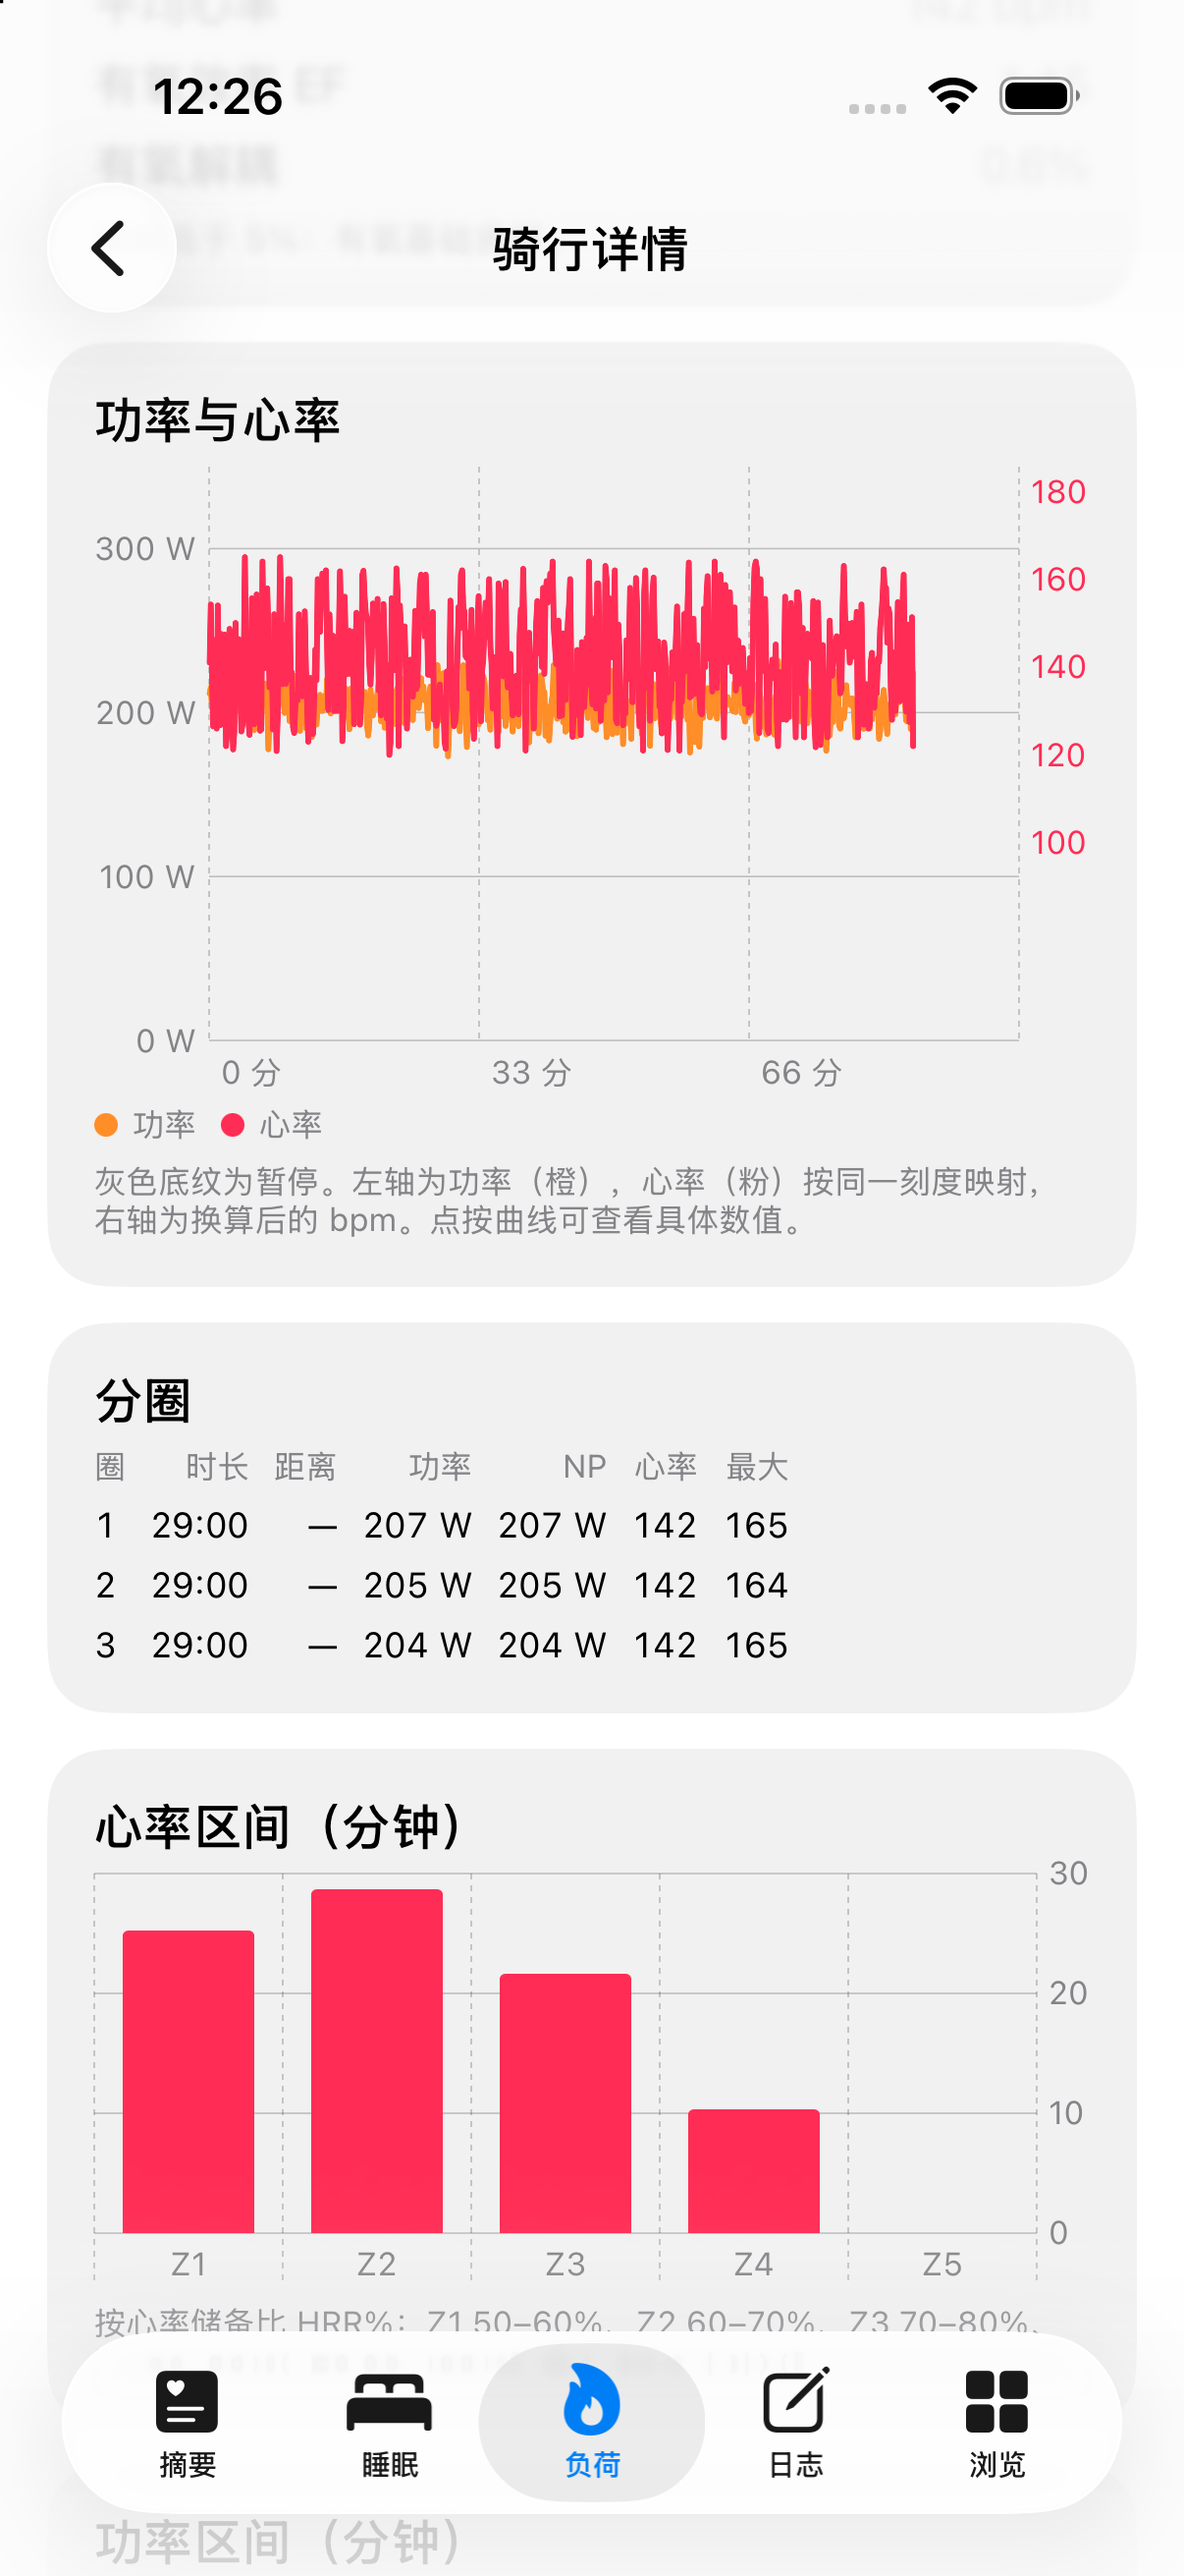
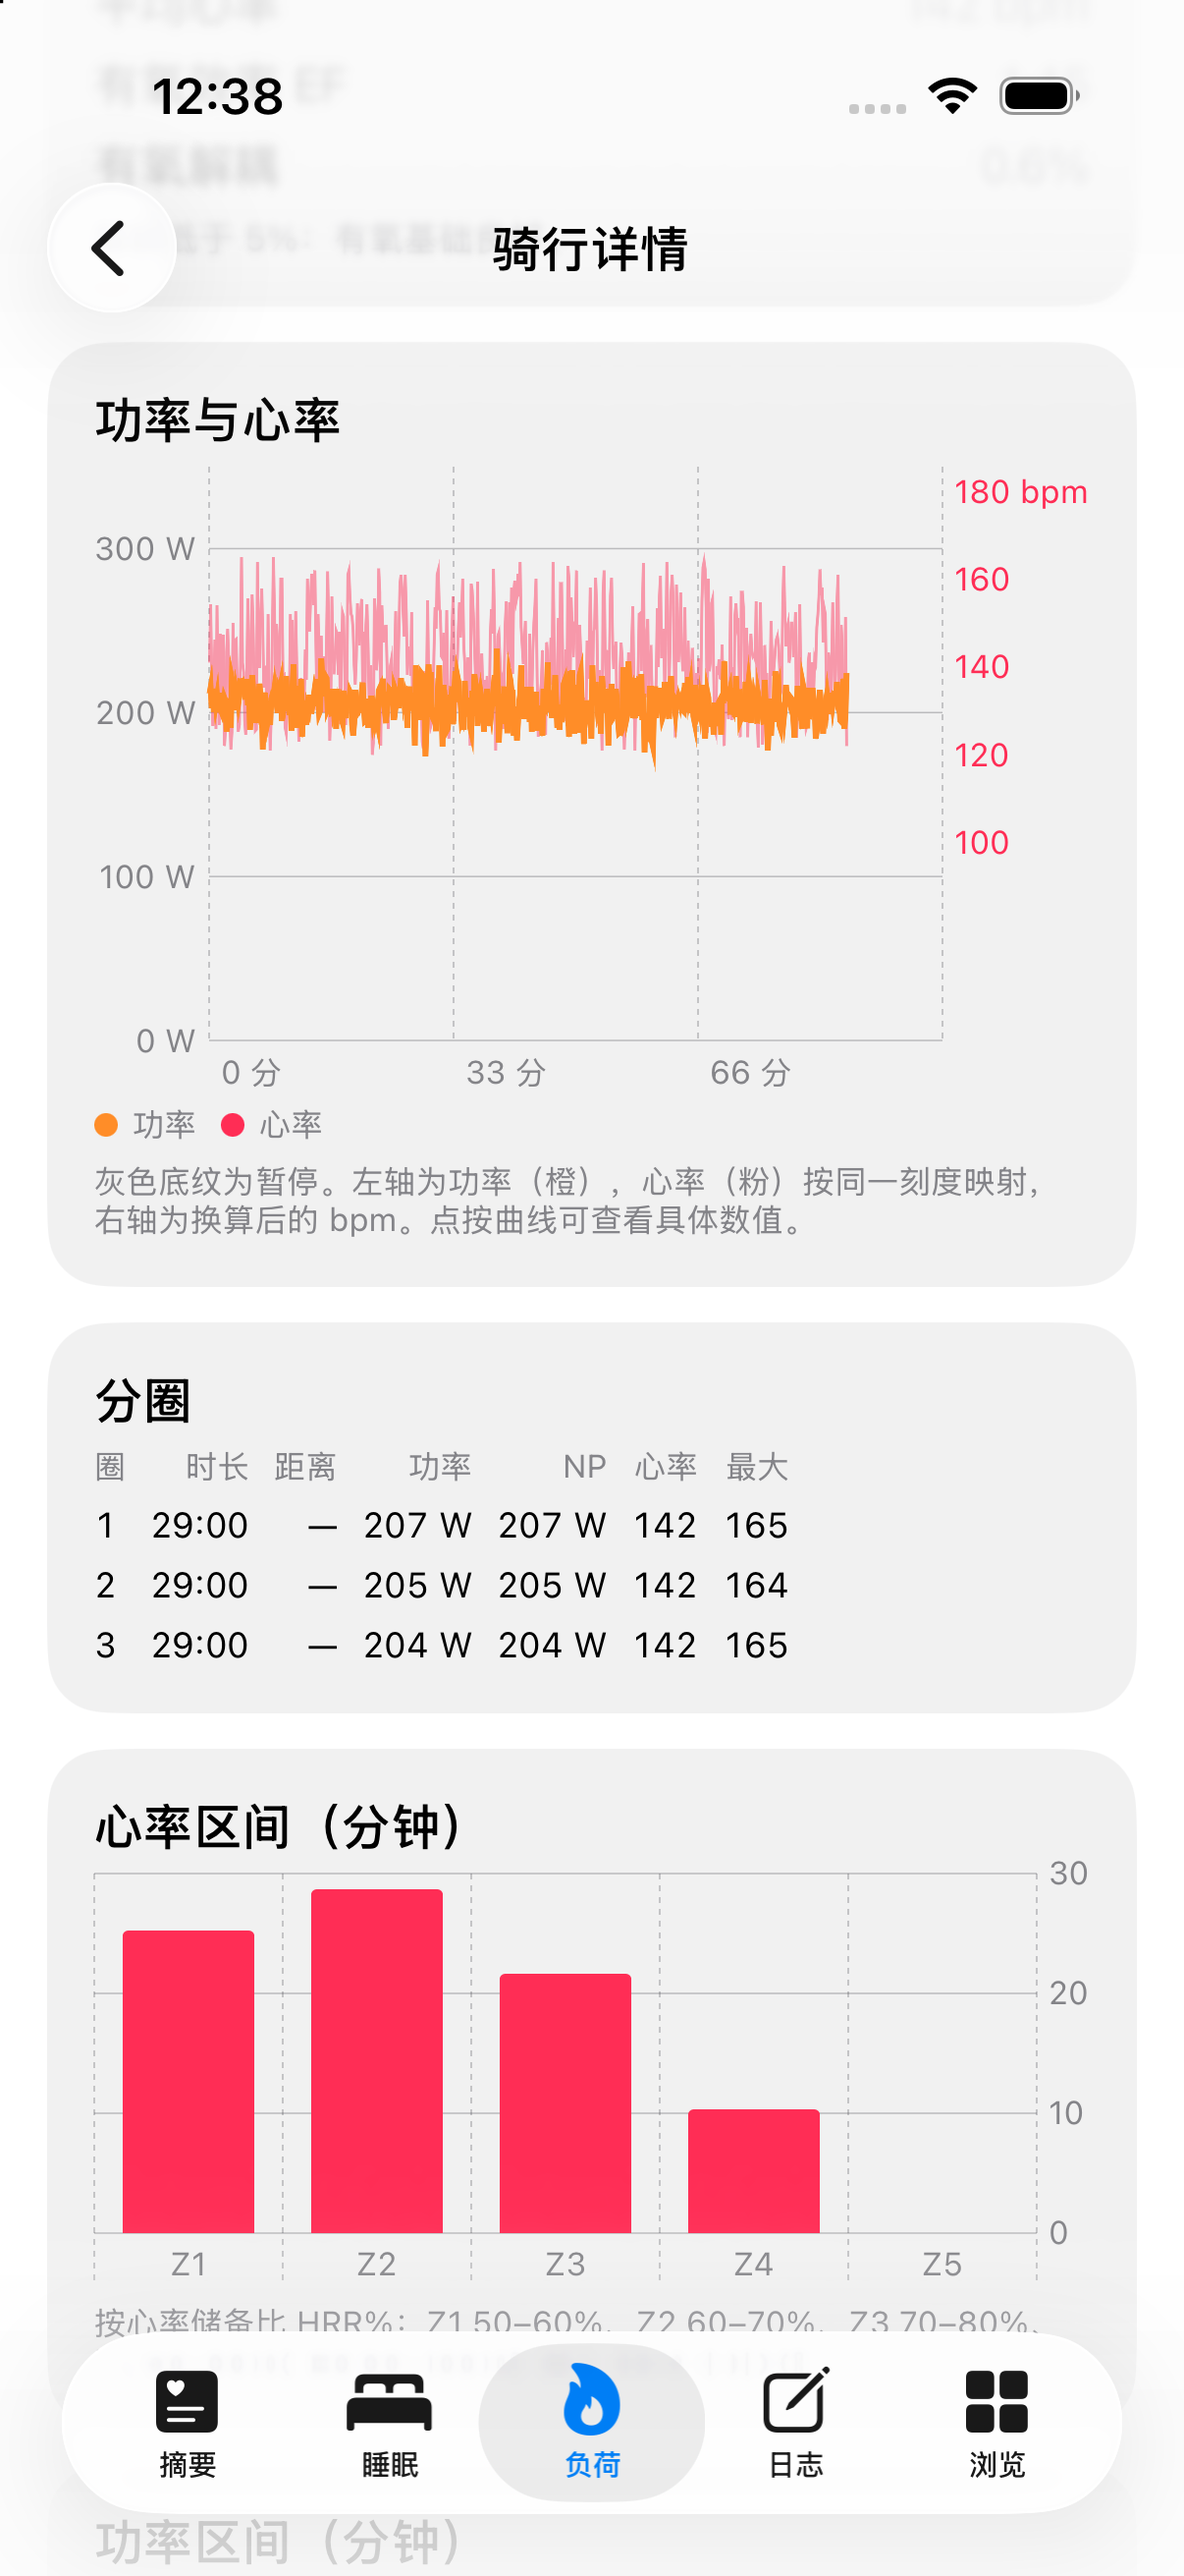
fix(cycling): align lap NP gap handling with ride NP and make power visible on dual-axis chart
- Lap NP fills long power gaps with the ride mean and short gaps with the previous value (D-128), and is omitted below 50% coverage (D-129); add regression tests
- Draw heart rate under power with lower opacity, label the right axis with bpm
- Let scripts/screenshots.sh take a list of routes

diff --git a/App/Cycling/RideTimelineChart.swift b/App/Cycling/RideTimelineChart.swift
@@ -105,17 +105,21 @@ struct RideTimelineChart: View {
                 )
                 .foregroundStyle(Color.gray.opacity(0.15))
             }
-            if hasPower {
-                ForEach(powerRows) { row in
-                    LineMark(x: .value("时间", row.offset), y: .value(row.kind, row.value), series: .value("段", "\(row.kind)\(row.segment)"))
-                        .foregroundStyle(by: .value("指标", row.kind))
-                        .interpolationMethod(.linear)
-                }
-            }
+            // 先画心率、后画功率：心率抖动大，放在下层并调淡，避免盖住功率线
             if hasHeartRate {
                 ForEach(heartRateRows) { row in
                     LineMark(x: .value("时间", row.offset), y: .value(row.kind, row.value), series: .value("段", "\(row.kind)\(row.segment)"))
                         .foregroundStyle(by: .value("指标", row.kind))
+                        .opacity(hasPower ? 0.45 : 1)
+                        .lineStyle(StrokeStyle(lineWidth: 1))
+                        .interpolationMethod(.linear)
+                }
+            }
+            if hasPower {
+                ForEach(powerRows) { row in
+                    LineMark(x: .value("时间", row.offset), y: .value(row.kind, row.value), series: .value("段", "\(row.kind)\(row.segment)"))
+                        .foregroundStyle(by: .value("指标", row.kind))
+                        .lineStyle(StrokeStyle(lineWidth: 2))
                         .interpolationMethod(.linear)
                 }
             }
@@ -127,7 +131,7 @@ struct RideTimelineChart: View {
                     }
             }
         }
-        .chartForegroundStyleScale([Self.powerName: Color.orange, Self.heartRateName: Color.pink])
+        .chartForegroundStyleScale(domain: [Self.powerName, Self.heartRateName], range: [Color.orange, Color.pink])
         .chartYScale(domain: yDomain)
         .chartXSelection(value: $selected)
         .chartXAxis {
@@ -164,8 +168,9 @@ struct RideTimelineChart: View {
                 AxisMarks(position: .trailing, values: rightTickPositions) { value in
                     AxisValueLabel {
                         if let mapped = value.as(Double.self) {
-                            let bpm = RideChartScale.heartRate(mapped: mapped, low: low, high: high, top: powerTop)
-                            Text("\(Int(bpm.rounded()))").foregroundStyle(.pink)
+                            let bpm = Int(RideChartScale.heartRate(mapped: mapped, low: low, high: high, top: powerTop).rounded())
+                            // 只在最上面的刻度写单位，避免右轴过宽
+                            Text(mapped == rightTickPositions.last ? "\(bpm) bpm" : "\(bpm)").foregroundStyle(.pink)
                         }
                     }
                 }

diff --git a/Packages/VigorScoring/Sources/VigorScoring/Cycling/RideTimeline.swift b/Packages/VigorScoring/Sources/VigorScoring/Cycling/RideTimeline.swift
@@ -228,6 +228,14 @@ public enum RideTimelineBuilder {
         distance: [Double?],
         paused: [Bool]
     ) -> [RideLapSummary] {
+        // 分圈 NP 与整次骑行同一口径（D-128）：短空档沿用前值、长空档用本次平均功率、暂停为 0；
+        // 整次骑行的功率覆盖率不足 50%（D-129）时，分圈也不出 NP。
+        let present = power.map { $0 != nil }
+        let movingSeconds = paused.filter { !$0 }.count
+        let measuredSeconds = present.indices.filter { present[$0] && !paused[$0] }.count
+        let powerUsable = movingSeconds > 0 && Double(measuredSeconds) / Double(movingSeconds) >= 0.5
+        var filledPower = power.map { $0 ?? 0 }
+        GroupSeries.fillGaps(&filledPower, present: present, paused: paused)
         let laps = fits.flatMap(\.laps).compactMap { lap -> (Date, Date)? in
             guard let start = lap.startTime, let end = lap.endTime, end > start else { return nil }
             return (start, end)
@@ -239,14 +247,14 @@ public enum RideTimelineBuilder {
             let watts = seconds.compactMap { power[$0] }
             let bpm = seconds.compactMap { heartRate[$0] }
             let meters = seconds.compactMap { distance[$0] }
-            let padded = seconds.map { paused[$0] ? 0 : (power[$0] ?? 0) }
+            let padded = seconds.map { paused[$0] ? 0 : filledPower[$0] }
             return RideLapSummary(
                 index: offset + 1,
                 start: bounds.0,
                 durationSeconds: seconds.filter { !paused[$0] }.count,
                 distanceMeters: meters.count >= 2 ? (meters.max() ?? 0) - (meters.min() ?? 0) : nil,
                 averagePower: watts.isEmpty ? nil : watts.reduce(0, +) / Double(watts.count),
-                normalizedPower: CyclingMath.normalizedPower(padded),
+                normalizedPower: powerUsable && !watts.isEmpty ? CyclingMath.normalizedPower(padded) : nil,
                 averageHeartRate: bpm.isEmpty ? nil : bpm.reduce(0, +) / Double(bpm.count),
                 maxHeartRate: bpm.max()
             )

diff --git a/Packages/VigorScoring/Tests/VigorScoringTests/RideTimelineTests.swift b/Packages/VigorScoring/Tests/VigorScoringTests/RideTimelineTests.swift
@@ -176,3 +176,40 @@ struct RideTimelineTests {
         #expect(timeline.laps.isEmpty)
     }
 }
+
+@Suite("RideTimeline 分圈 NP 口径")
+struct RideLapPowerGapTests {
+    let base = RideTimelineTests()
+
+    func lapTimeline(power: [Int?]) -> RideTimeline {
+        var stream = RideStream.simple(
+            fileID: "gap",
+            start: base.start,
+            heartRate: Array(repeating: 140, count: power.count),
+            power: power
+        )
+        stream.laps = [FITLap(startTime: base.start, endTime: base.start.addingTimeInterval(Double(power.count)))]
+        return RideTimelineBuilder.build(
+            ride: base.ride(id: "fit-gap", seconds: power.count),
+            snapshot: base.snapshot(),
+            importedRides: [stream]
+        )
+    }
+
+    @Test("功率中途掉线 60 秒：分圈 NP 按 D-128 用平均功率填充，而不是按 0 W")
+    func longGapUsesRideMean() throws {
+        // 前 300 秒 200 W，掉线 60 秒，后 300 秒 200 W：长空档填平均功率 200 → NP = 200（按 0 W 计会明显偏低）
+        let power: [Int?] = Array(repeating: 200, count: 300) + Array(repeating: nil, count: 60) + Array(repeating: 200, count: 300)
+        let lap = try #require(lapTimeline(power: power).laps.first)
+        let np = try #require(lap.normalizedPower)
+        #expect(abs(np - 200) < 1e-9)
+        #expect(lap.averagePower == 200)
+    }
+
+    @Test("功率覆盖不足 50%：分圈不出 NP")
+    func lowCoverageHasNoNormalizedPower() throws {
+        let power: [Int?] = Array(repeating: 200, count: 200) + Array(repeating: nil, count: 400)
+        let lap = try #require(lapTimeline(power: power).laps.first)
+        #expect(lap.normalizedPower == nil)
+    }
+}

diff --git a/docs/DECISIONS.md b/docs/DECISIONS.md
@@ -144,3 +144,5 @@
 | D-138 | M6 补完 C3 | `RideResult.heartRateZoneSeconds` 为可选字段（默认 nil，旧 JSON 解码为 nil，测试覆盖）。口径为 PRD §5.1 的 HRR%：Z1 50–60%、Z2 60–70%、Z3 70–80%、Z4 80–90%、Z5 90–100%，低于 50% 不计入，超过 100% 截断到 Z5。FIT 按秒计，非 FIT 按分钟计（每分钟 60 秒）。C3 先于 C2 的界面完成，因为 C2 的心率区间卡片读取它。 | PRD §5.1 与施工文档 C2、C3 的依赖关系。 |
 | D-139 | M6 补完 C6 | 合成场景：时长不少于 900 秒的 FIT 骑行切成三段等长的圈（末圈取到整秒），分圈不进入评分。截图路由新增 `ride:chart`、`ride:laps`（详情页滚动到对应卡片）、`ftp-history`、`metric:ef` 与 `settings:sources`；`settings:sources` 打开独立的“骑行设置”页（`CyclingSettingsPage`），内容与设置中的“骑行”分组是同一个视图。 | 施工文档 C6 第 1 条。 |
 | D-140 | M6 补完 C6 | 版本统一为 1.3.0（build 6），四个 target 都在 `project.yml` 中修改。 | 施工文档 §5 的版本要求。 |
+| D-141 | M6 补完审查修正 | 分圈 NP 与整次骑行同一口径（D-128）：长空档用本次平均功率、短空档沿用前值、暂停为 0；功率覆盖率不足 50%（D-129）时分圈不出 NP。原实现把缺失的秒按 0 W 计算，功率中途掉线时分圈 NP 会偏低。新增两个测试（掉线 60 秒时 NP = 200；覆盖不足时为 nil）。 | 审查指出分圈与整次骑行口径不一致。 |
+| D-142 | M6 补完审查修正 | 双轴曲线先画心率、后画功率；有功率时心率线透明度 0.45、线宽 1，功率线宽 2；右轴最上方的刻度标注 bpm 单位。截图脚本支持只截指定路由（`scripts/screenshots.sh ride:chart ride:laps`）。 | 原图中心率线盖住了功率线，右轴没有单位。 |
